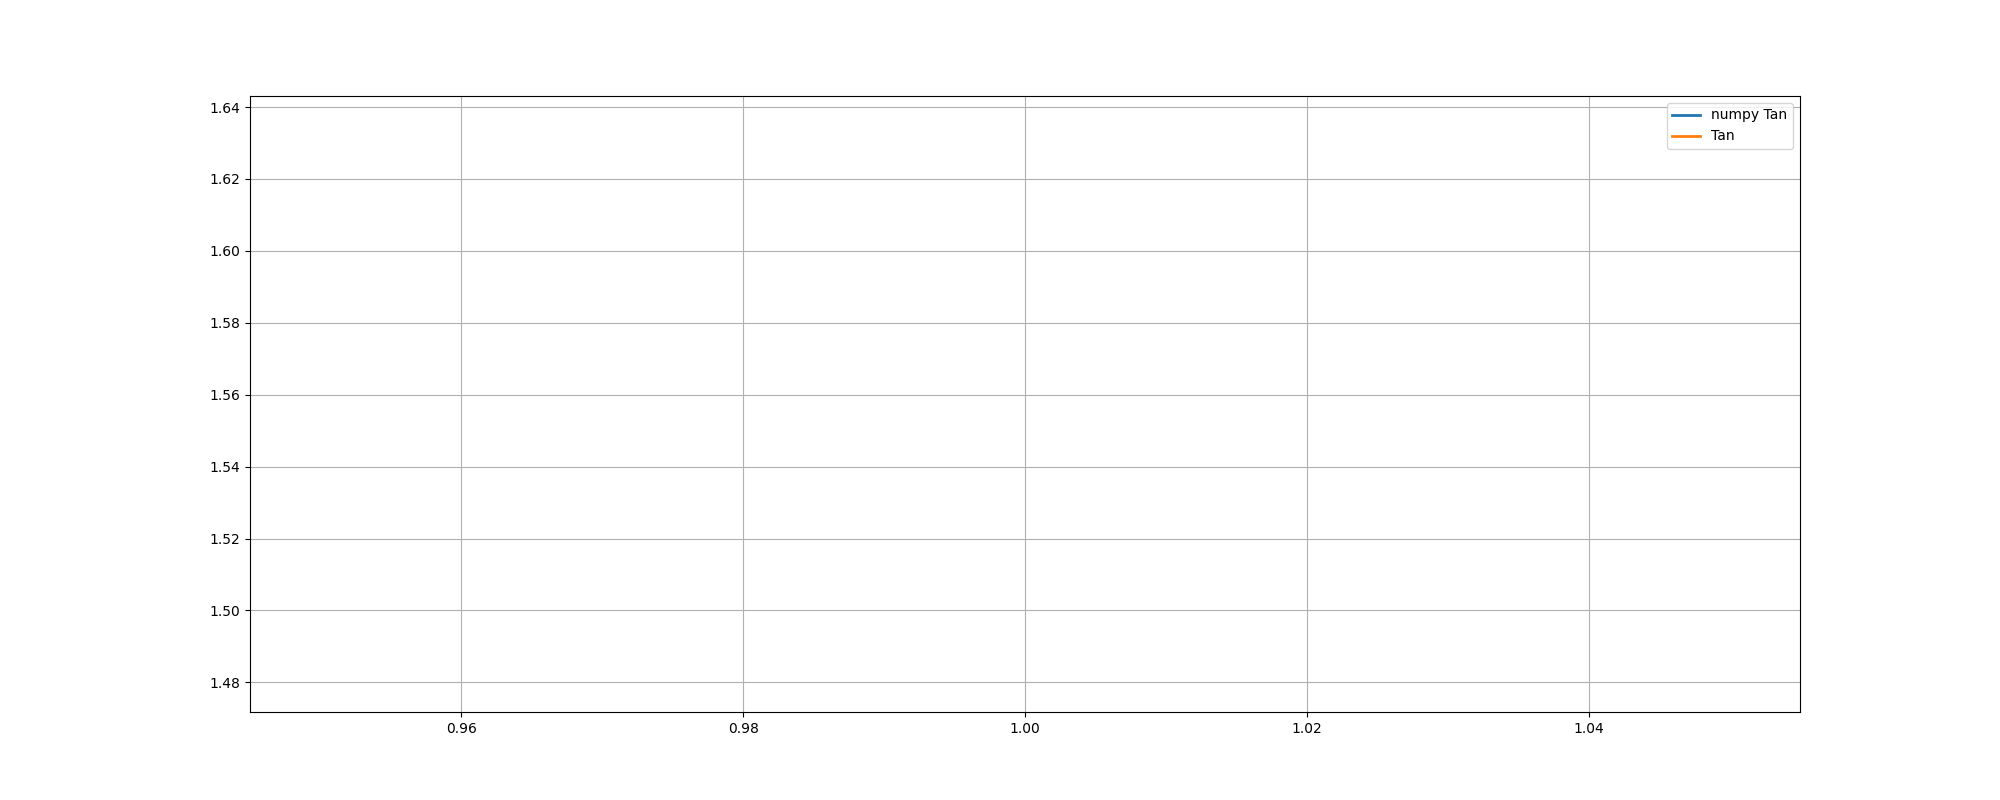
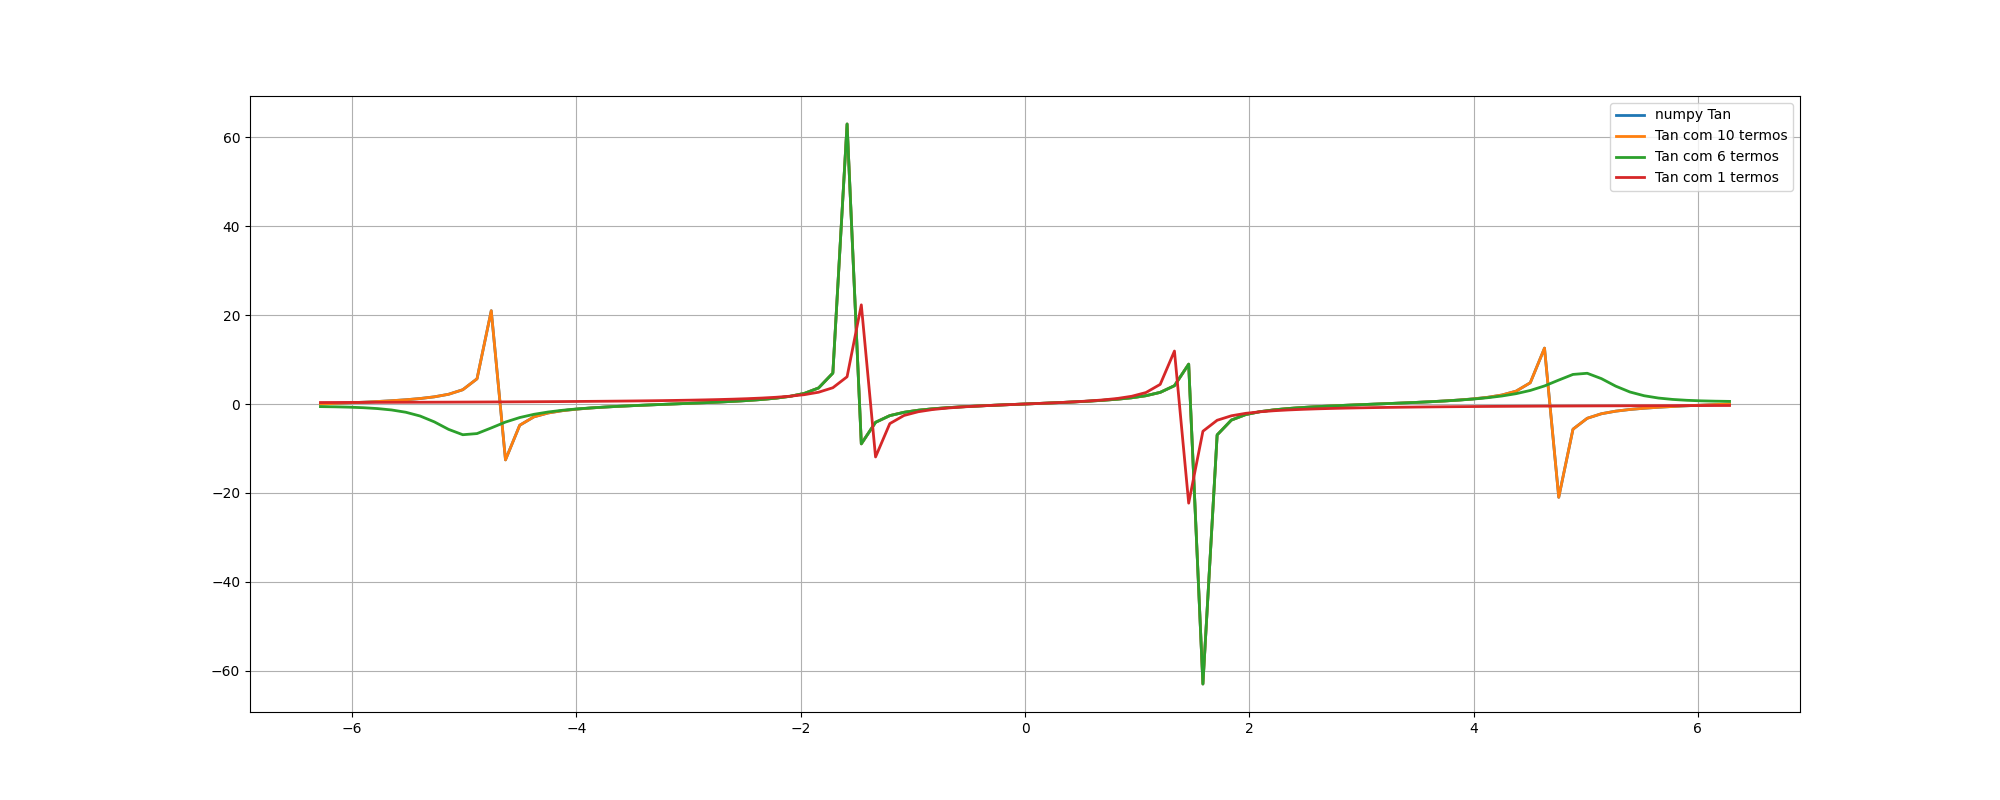
Plotando Tangentes

diff --git a/main.py b/main.py
@@ -3,27 +3,8 @@ import numpy as np
 import matplotlib.pyplot as plt
 
 
-
-
-#diff aproach
-def bernoulli(z):
-    if z == 0:
-        return 1
-    else:
-        total = 0
-        for i in range (0, z + 1):
-            #math.comb nos retorna o coeficiente binomial de uma expansao que no caso da tangente é o bernoulli
-            total += math.comb(z, i) * bernoulli(i) / (z - i + 1)
-        return 1 - total
-
-def expansaoTanX(x0, n):
-    somaTanx = 0
-    for i in range(1, n+1):
-        somaTanx += ((bernoulli(2 * i)) / math.factorial(2 * i)) * ((-4)**i) * (1 - (4**i)) * (x0**(2 * i - 1))
-    return somaTanx
-
-
 #aproximaçao da tangente por taylor / maclaurin utilizando numero de bernoulli
+# relativamente precisa para ate 6-8 termos
 def tan_Taylor(x0, n):
     somaTan = 0
     for i in range(1 , n + 1):
@@ -40,7 +21,10 @@ def tan_Taylor(x0, n):
         somaTan +=  pow(-4, i) * (1 - pow(4, i)) * B * pow(x0, 2 * i - 1) / math.factorial(2 * i)
     return somaTan
 
-#aproximaçao da tangente usando relações trigonométricas
+
+
+#aproximaçao da tangente usando relações trigonométricas tan = sen/cos utilizamos as aproximaçoes de seno e cosseno para o calculo 
+#precisao otima ate 15 algarismos apos a virgula usando 20 termos
 def tanSinCos(x0, n):
     tan = np.divide(seno(x0, n), cosseno(x0, n))
     return tan
@@ -66,30 +50,25 @@ def seno(x0, n):
         seno +=(x0**(2.0*i + 1))/math.factorial(2*i+1)*sinal
     return seno 
 
-
-
 print("Tangente numpy: %.20f" % np.tan(1))
 tanExpansion = tan_Taylor(1, 6)
 print("Tangente aproximada por taylor/maclaurin: %.20f" %tanExpansion)
-tanExpansion2 = expansaoTanX(1, 1)
-print("Tangente aproximada por taylor/maclaurin versao 2: %.20f" %tanExpansion2)
-
 tanSC = tanSinCos(1, 20)
 print("Tangente aproximada por taylor/maclaurin seno cossseno: %.20f" %tanSC)
 
-
-
-
-
 x = np.linspace(-2*np.pi, 2*np.pi, 100)
-y1 = np.tan(1)
-y2 = tanSinCos(1, 20)
+
+y1 = np.tan(x)
+y2 = tanSinCos(x, 10)
+y3 = tanSinCos(x, 6)
+y4 = tanSinCos(x, 1)
 
 fig, ax = plt.subplots()
 fig.set_size_inches(20, 8)
-ax.plot(1 , y1, linewidth = 2.0, label ="numpy Tan")
-ax.plot(1 , y2, linewidth = 2.0, label ="Tan")
-
+ax.plot(x, y1, linewidth = 2.0, label ="numpy Tan")
+ax.plot(x, y2, linewidth = 2.0, label ="Tan com 10 termos")
+ax.plot(x, y3, linewidth = 2.0, label ="Tan com 6 termos")
+ax.plot(x, y4, linewidth = 2.0, label ="Tan com 1 termos")
 ax.legend()
 ax.grid()
 
